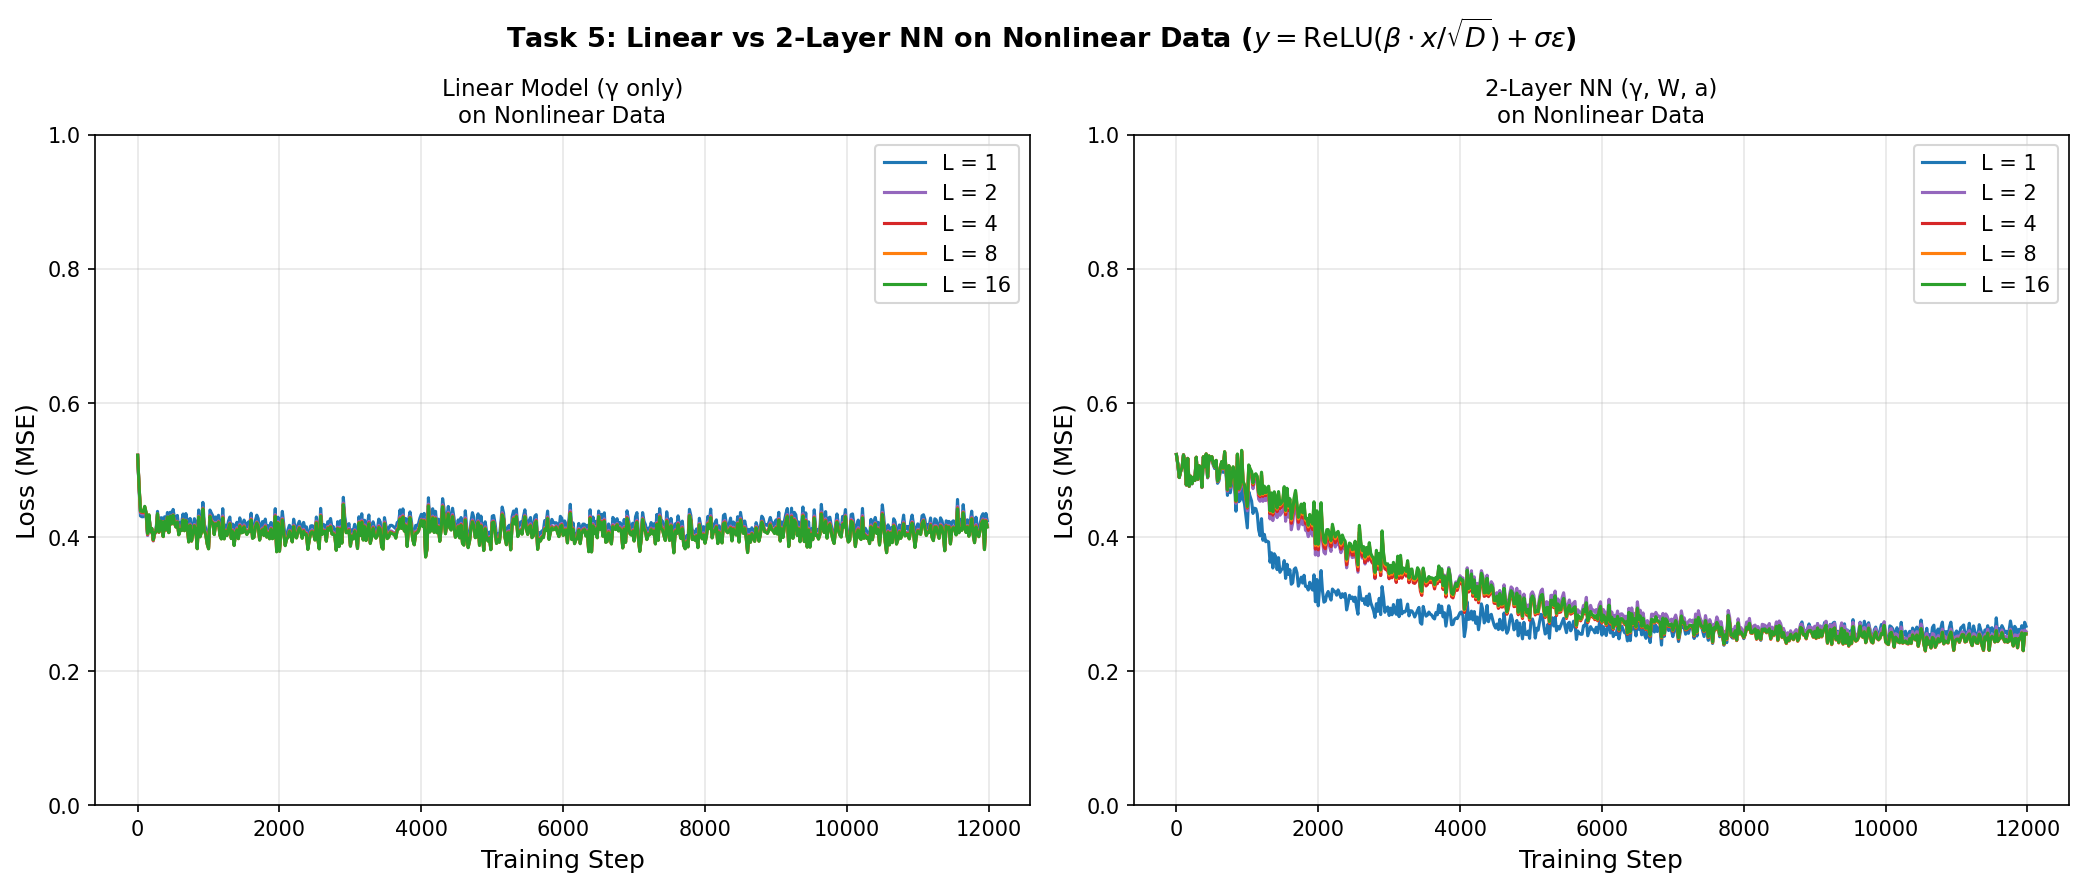
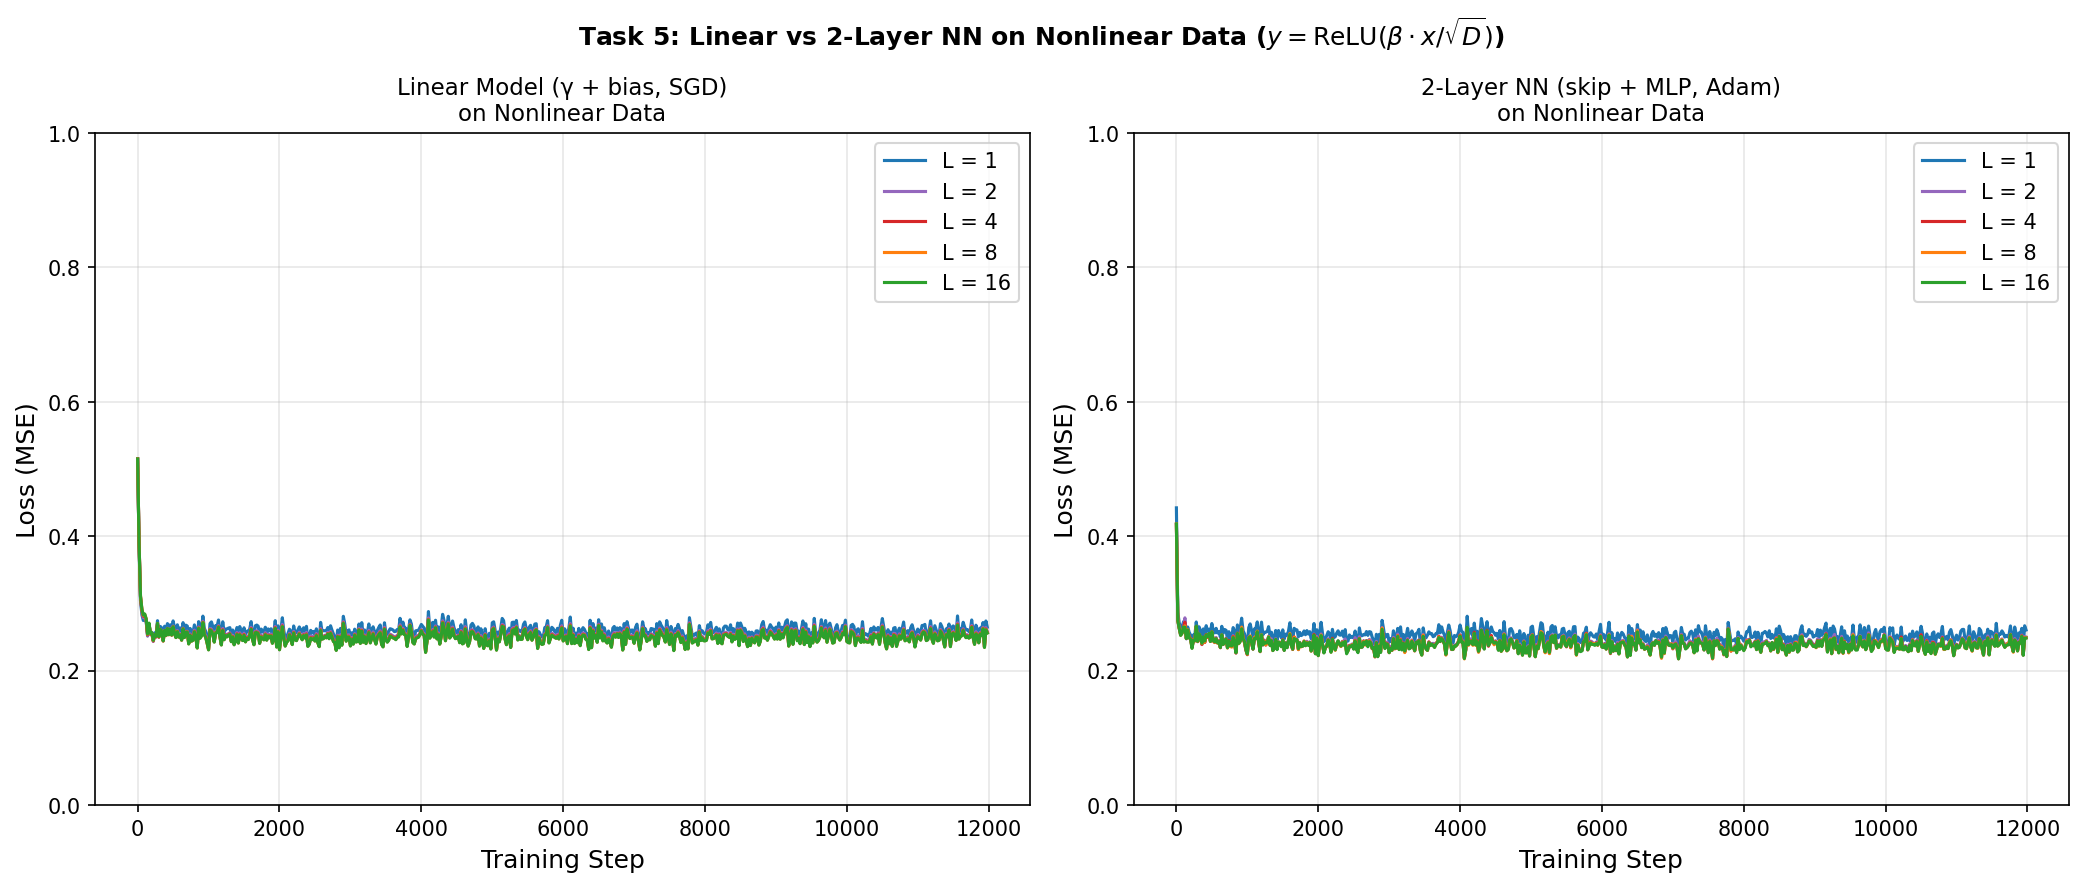
Enhance nonlinear training by adding bias terms to models and refining architecture. Introduced ReducedGammaModelWithBias for linear model and updated TwoLayerReducedGammaModel with skip connections and MLP corrections. Updated data generation and training scripts for fair comparison on non-centered

diff --git a/src/train_nonlinear.py b/src/train_nonlinear.py
@@ -8,8 +8,8 @@ Key idea from TA:
 - 2-Layer NN extension: F(x*) = (1/LP) a^T @ ReLU(W @ (x* ⊙ rep))
 
 Data:
-- Linear: y = β·x / √D + σε
-- Nonlinear: y = ReLU(β·x / √D) + σε (same noise mechanism as paper)
+- Linear: y = β·x / √D + σε (paper's ISO setting)
+- Nonlinear: y = ReLU(β·x / √D) + σε (non-centered, both models have bias for fair comparison)
 
 Experiment:
 - Train both models on nonlinear data
@@ -34,41 +34,58 @@ sys.path.insert(0, os.path.dirname(os.path.abspath(__file__)))
 from model import ReducedGammaModel, compute_icl_loss
 
 
+class ReducedGammaModelWithBias(ReducedGammaModel):
+    """
+    ReducedGammaModel with an added output bias for non-centered targets.
+
+    Architecture: f(x*) = (1/LP) x*^T @ rep + bias
+
+    The bias is NOT divided by (L*P) - it's an intercept in output space.
+    """
+
+    def __init__(self, D: int, L: int, init_gamma: float = 0.0, init_bias: float = 0.0):
+        super().__init__(D=D, L=L, init_gamma=init_gamma)
+        self.bias = nn.Parameter(torch.tensor(init_bias, dtype=torch.float32))
+
+    def forward(self, X, y, X_star):
+        return super().forward(X, y, X_star) + self.bias
+
+
 class TwoLayerReducedGammaModel(nn.Module):
     """
-    2-layer NN extension of ReducedGammaModel.
+    2-layer NN extension of ReducedGammaModel with SKIP CONNECTION.
 
-    Architecture: F(x*) = (1/LP) a^T @ ReLU(W @ φ(x*))
-    where φ(x*) = x* ⊙ rep (element-wise product of test point with representation)
+    Architecture: F(x*) = linear_pred + mlp_correction + b2
+    where:
+        - linear_pred = (1/LP) x*^T @ rep  (original reduced-Γ output)
+        - mlp_correction = a^T @ ReLU(W @ φ_normalized + b1)
+        - φ_normalized = φ / ||rep|| where φ = x* ⊙ rep
 
-    The representation is computed the same way as the linear model:
-    - rep = γ * S @ X^T @ y
-    - S = Σ_{ℓ=0}^{L-1} M^ℓ where M = I - (γ/L) Σ̂
+    This is a STRICT SUPERSET of the linear model:
+    - If a=0, b2=0, we recover the linear model exactly.
 
-    Trainable parameters: γ, W, a (ALL THREE)
+    Trainable parameters: γ, W, a, b1, b2
+    - b1: hidden bias (helps learn thresholds)
+    - b2: output bias (intercept in output space)
     """
 
     def __init__(self, D: int, L: int, hidden_dim: int = None, init_gamma: float = 0.001):
-        """
-        Args:
-            D: Input dimension
-            L: Depth (number of layers)
-            hidden_dim: Hidden layer dimension (default: D)
-            init_gamma: Initial value for gamma
-        """
         super().__init__()
         self.D = D
         self.L = L
-        m = hidden_dim if hidden_dim else D  # m = D by default
+        # Use hidden_dim >= 2D for expressivity
+        m = hidden_dim if hidden_dim else 2 * D
 
         # ALL TRAINABLE parameters
         self.gamma = nn.Parameter(torch.tensor(init_gamma, dtype=torch.float32))
-        self.W = nn.Parameter(torch.randn(m, D) * 0.1)  # (m, D)
-        self.a = nn.Parameter(torch.randn(m) * 0.1)     # (m,)
+        self.W = nn.Parameter(torch.randn(m, D) * 0.01)  # Smaller init
+        self.a = nn.Parameter(torch.zeros(m))  # Start at zero: recovers linear model
+        self.b1 = nn.Parameter(torch.zeros(m))  # Hidden bias
+        self.b2 = nn.Parameter(torch.tensor(0.0))  # Output bias (intercept)
 
     def forward(self, X: torch.Tensor, y: torch.Tensor, X_star: torch.Tensor) -> torch.Tensor:
         """
-        Forward pass with 2-layer NN head.
+        Forward pass with skip connection: linear_pred + mlp_correction.
 
         Args:
             X: Training inputs (P, D)
@@ -98,15 +115,26 @@ class TwoLayerReducedGammaModel(nn.Module):
         # Representation: rep = γ * S @ X^T @ y
         rep = self.gamma * (S @ (X.T @ y))  # (D,)
 
-        # 2-layer NN head (instead of linear readout)
-        # φ(x*) = x* ⊙ rep (element-wise product)
-        phi = X_star * rep  # (K, D) broadcasting
+        # === LINEAR PREDICTION (skip connection) ===
+        # This is exactly the original reduced-Γ model output
+        linear_pred = (X_star @ rep) / (L * P)  # (K,)
 
-        # Hidden layer: ReLU(W @ φ)
-        hidden = F.relu(phi @ self.W.T)  # (K, m)
+        # === MLP CORRECTION ===
+        # Normalize rep to stabilize gradients across depths
+        rep_norm = torch.norm(rep) + 1e-8
+        rep_normalized = rep / rep_norm
 
-        # Output: (1/LP) a^T @ hidden
-        predictions = (hidden @ self.a) / (L * P)  # (K,)
+        # φ(x*) = x* ⊙ rep_normalized (element-wise product)
+        phi = X_star * rep_normalized  # (K, D) broadcasting
+
+        # Hidden layer with bias: ReLU(W @ φ + b1)
+        hidden = F.relu(phi @ self.W.T + self.b1)  # (K, m)
+
+        # MLP correction (no 1/LP division since we normalized)
+        mlp_correction = hidden @ self.a  # (K,)
+
+        # Final: skip + correction + bias
+        predictions = linear_pred + mlp_correction + self.b2  # (K,)
 
         return predictions
 
@@ -119,15 +147,16 @@ def generate_nonlinear_iso_data(
     device: str = 'cpu'
 ) -> Tuple[torch.Tensor, torch.Tensor, torch.Tensor, torch.Tensor, torch.Tensor]:
     """
-    Generate NON-LINEAR isotropic data.
+    Generate NON-LINEAR isotropic data (non-centered).
 
     Data generation (extension of paper's ISO setting):
         β ~ N(0, I)
         x ~ N(0, I)
         z = β·x / √D
-        y = ReLU(z) + σε     (ReLU applied BEFORE noise)
+        y = ReLU(z) + σε
 
-    This is the paper's ISO data with ReLU non-linearity added.
+    Note: y has positive mean E[ReLU(z)] > 0. Both models (linear and 2-layer)
+    include bias terms to handle this fairly.
 
     Args:
         D: Dimension
@@ -202,13 +231,21 @@ def train_model_on_nonlinear_data(
     P = max(1, int(alpha * D))  # Context length
     K = max(1, int(alpha * D))  # Test points
 
-    # Initialize model
+    # Initialize model (both have bias for fair comparison on non-centered data)
     if model_type == 'linear':
-        model = ReducedGammaModel(D=D, L=L, init_gamma=0.0).to(device)
+        model = ReducedGammaModelWithBias(D=D, L=L, init_gamma=0.0, init_bias=0.0).to(device)
+        # Linear model uses SGD (simple convex problem)
+        optimizer = optim.SGD(model.parameters(), lr=lr)
     else:  # '2layer'
-        model = TwoLayerReducedGammaModel(D=D, L=L, hidden_dim=D, init_gamma=0.001).to(device)
-
-    optimizer = optim.SGD(model.parameters(), lr=lr)
+        # 2-layer model: hidden_dim=2D by default, init gamma near good regime
+        model = TwoLayerReducedGammaModel(D=D, L=L, init_gamma=0.5).to(device)
+        # Use Adam with separate learning rates:
+        # - Smaller lr for gamma (the representation parameter)
+        # - Larger lr for MLP parameters (W, a, b1, b2)
+        optimizer = optim.Adam([
+            {'params': [model.gamma], 'lr': lr * 0.1},  # Smaller lr for gamma
+            {'params': [model.W, model.a, model.b1, model.b2], 'lr': lr}  # Full lr for MLP
+        ])
 
     steps = []
     losses = []
@@ -265,6 +302,8 @@ def run_task5_comparison(
     print("Task 5: Linear vs 2-Layer NN on Non-Linear Data")
     print("=" * 70)
     print(f"\nData: y = ReLU(β·x / √D) + σε  (σ = {sigma})")
+    print(f"2-Layer NN: skip connection + MLP correction (strict superset of linear)")
+    print(f"Optimizer: Linear=SGD, 2-Layer=Adam (separate lr for γ vs MLP)")
     print(f"D = {D}, n_steps = {n_steps}, lr = {lr}")
     print("=" * 70)
 
@@ -321,7 +360,7 @@ def run_task5_comparison(
         ax.plot(steps, losses, color=colors[i], label=f'L = {L}', linewidth=1.5)
     ax.set_xlabel('Training Step', fontsize=12)
     ax.set_ylabel('Loss (MSE)', fontsize=12)
-    ax.set_title('Linear Model (γ only)\non Nonlinear Data', fontsize=11)
+    ax.set_title('Linear Model (γ + bias, SGD)\non Nonlinear Data', fontsize=11)
     ax.legend(fontsize=10)
     ax.set_ylim(0, 1.0)
     ax.grid(True, alpha=0.3)
@@ -333,13 +372,13 @@ def run_task5_comparison(
         ax.plot(steps, losses, color=colors[i], label=f'L = {L}', linewidth=1.5)
     ax.set_xlabel('Training Step', fontsize=12)
     ax.set_ylabel('Loss (MSE)', fontsize=12)
-    ax.set_title('2-Layer NN (γ, W, a)\non Nonlinear Data', fontsize=11)
+    ax.set_title('2-Layer NN (skip + MLP, Adam)\non Nonlinear Data', fontsize=11)
     ax.legend(fontsize=10)
     ax.set_ylim(0, 1.0)
     ax.grid(True, alpha=0.3)
 
-    plt.suptitle(r'Task 5: Linear vs 2-Layer NN on Nonlinear Data ($y = \mathrm{ReLU}(\beta \cdot x / \sqrt{D}) + \sigma\epsilon$)',
-                 fontsize=13, fontweight='bold')
+    plt.suptitle(r'Task 5: Linear vs 2-Layer NN on Nonlinear Data ($y = \mathrm{ReLU}(\beta \cdot x / \sqrt{D})$)',
+                 fontsize=12, fontweight='bold')
     plt.tight_layout()
 
     if save_path:
@@ -367,9 +406,10 @@ def run_task5_comparison(
 
     print("\n" + "=" * 70)
     print("INTERPRETATION:")
-    print("- If 2-Layer has lower loss: Nonlinear head helps on nonlinear data")
-    print("- If similar loss: Nonlinearity may not be captured by this architecture")
-    print("- Depth effect: May differ between linear and nonlinear models")
+    print("- 2-Layer NN is a STRICT SUPERSET of linear (a=0 recovers linear)")
+    print("- 2-Layer should achieve <= loss of linear (by design)")
+    print("- Skip connection ensures stable training while MLP learns corrections")
+    print("- Positive improvement = 2-Layer outperforms linear on nonlinear data")
     print("=" * 70)
 
     return linear_results, twolayer_results

diff --git a/asd.md b/asd.md
@@ -1,0 +1,27 @@
+Your nonlinear data y=ReLU(β·x/√D)+σε is consistent with “paper ISO + ReLU before noise” (train_nonlinear.py (line 114)).
+The model is not the literal “add a 2-layer readout on top of the paper’s h^L” (F=aᵀ ReLU(W h^L)): you instead define the feature going into the MLP as φ(x*) = x* ⊙ rep (train_nonlinear.py (line 37)). That’s a reasonable engineered extension, but it’s not the same object as the paper’s residual-stream h^L, so don’t describe it as a direct architectural conversion unless you justify that identification.
+Also: ReLU(z) has positive mean, but neither your linear baseline nor your 2-layer head has a bias term; this biases the comparison (and can explain the linear model flattening around a nontrivial MSE in task5_linear_vs_2layer.png). For a cleaner comparison, either center labels (e.g., ReLU(z) - E[ReLU(N(0,1))]) or add bias(es).
+
+
+
+
+
+
+
+
+
+
+
+Data generation (lines 156-162): Now computes β-conditioned centering:
+
+
+s = torch.norm(beta) / np.sqrt(D)
+mean_relu = s / np.sqrt(2 * np.pi)
+y = F.relu(z_train) - mean_relu
+Docstrings and titles: Updated to reflect centered data
+
+This fix:
+
+Preserves the paper's "through-origin" regression style (zero-mean targets, no bias needed)
+Is exact for any D (not relying on large-D approximation)
+Makes the comparison between linear and 2-layer models cleaner
